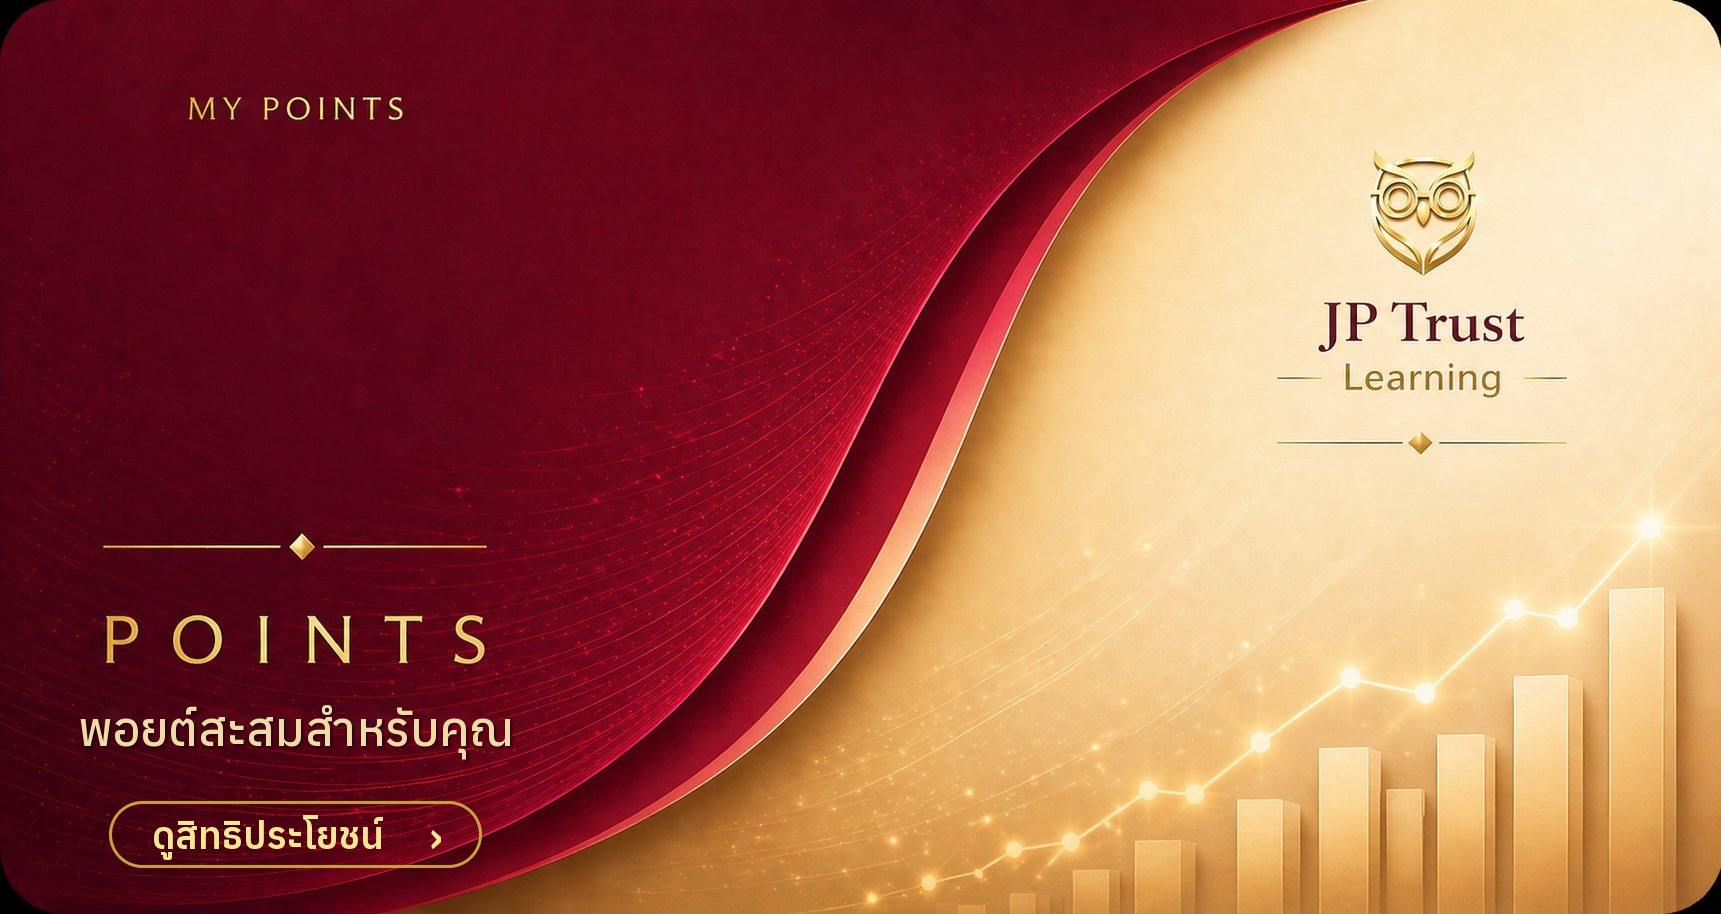
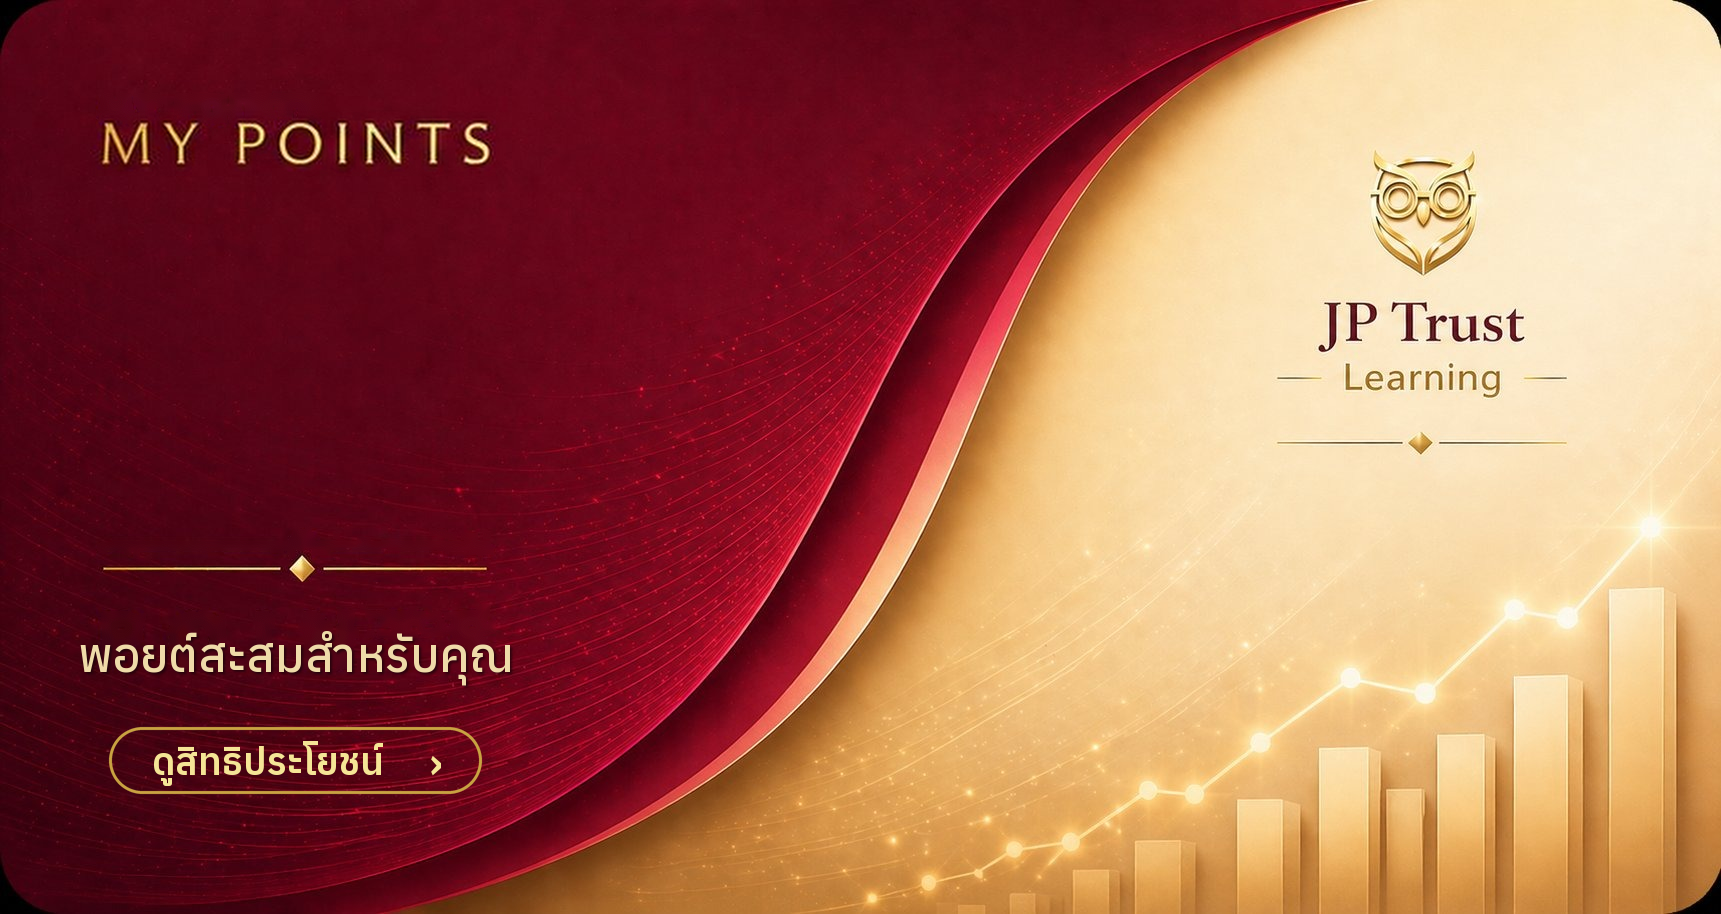
feat(dashboard): การ์ด Points ถอดคำ POINTS ตัวใหญ่ (ซ้ำกับ MY POINTS) · ขยาย MY POINTS 1.8 เท่า กว้างเท่าเส้นคั่น · จัดระยะแนวตั้งใหม่ ขอบบน = ขอบล่าง · วงแหวน top 24.15% · ปุ่มใส top 79.65% · cache-bust รูปการ์ด (A172)

Changed region(s): [[0.0308, 0.674, 0.308, 0.9497], [0.0616, 0.0919, 0.308, 0.1838], [0.0616, 0.5821, 0.2772, 0.6433]]

diff --git a/member-dashboard.html b/member-dashboard.html
@@ -129,7 +129,7 @@ html,body{font-family:'Sarabun','Anuphan',sans-serif;background:var(--cream);col
 /* Member name overlay: hidden — new card has owl/brand on right, no name slot */
 .rc-member-name{display:none}
 /* Points overlay: dynamic number rendered in upper-left maroon space, with static "POINTS" word in image acting as label below */
-.rc-points{position:absolute;left:8.14%;top:22%;text-align:center;display:flex;flex-direction:column;align-items:center;justify-content:center;width:18%;aspect-ratio:1;pointer-events:none}
+.rc-points{position:absolute;left:8.14%;top:24.15%;text-align:center;display:flex;flex-direction:column;align-items:center;justify-content:center;width:18%;aspect-ratio:1;pointer-events:none}
 .rc-points-ring{position:absolute;inset:0;width:100%;height:100%;border-radius:50%;border:1.5px solid transparent;border-top-color:rgba(212,175,55,0.7);border-right-color:rgba(244,228,186,0.3);animation:pointsSpin 3s linear infinite;filter:drop-shadow(0 0 4px rgba(212,175,55,0.4))}
 .rc-points-ring2{position:absolute;inset:7%;border-radius:50%;border:1px solid transparent;border-bottom-color:rgba(244,228,186,0.5);border-left-color:rgba(212,175,55,0.2);animation:pointsSpin 5s linear infinite reverse;filter:drop-shadow(0 0 3px rgba(212,175,55,0.3))}
 .rc-points-glow{position:absolute;inset:0;border-radius:50%;background:radial-gradient(circle,rgba(212,175,55,0.18) 0%,rgba(212,175,55,0.06) 50%,transparent 72%);animation:pointsPulse 2.5s ease-in-out infinite}
@@ -152,8 +152,8 @@ html,body{font-family:'Sarabun','Anuphan',sans-serif;background:var(--cream);col
 .rc-guide-label{font-family:'Cinzel','Anuphan',serif;font-size:max(10px,2cqw);color:#8B6914;letter-spacing:0.04em;text-align:center;text-shadow:0 1px 2px rgba(255,254,248,0.6);font-weight:600;line-height:1.2;white-space:nowrap}
 @media(max-width:380px){.rc-guide-label{font-size:9px;letter-spacing:0.02em}}
 
-/* A170 · ปุ่ม "ดูสิทธิประโยชน์" บนการ์ด — ปุ่มเป็นภาพใน member-card-rewards.png จึงวางปุ่มใสทับตำแหน่งเดียวกัน (วัดจากพิกเซลจริง 1721×914) · เปลี่ยนรูปการ์ดแล้วปุ่มย้าย ต้องวัดใหม่ · A171: คอลัมน์ซ้ายจัดกึ่งกลางแกน x=295 (ปุ่มในภาพ x109–481) · วงแหวน .rc-points left 8.14% ให้ศูนย์กลางตรงแกนเดียวกัน */
-.rc-benefit-link{position:absolute;left:6.39%;top:87.75%;width:21.5%;height:7%;border-radius:999px;border:0;padding:0;margin:0;background:transparent;cursor:pointer;z-index:5;-webkit-tap-highlight-color:transparent;transition:background .15s ease,box-shadow .15s ease}
+/* A170 · ปุ่ม "ดูสิทธิประโยชน์" บนการ์ด — ปุ่มเป็นภาพใน member-card-rewards.png จึงวางปุ่มใสทับตำแหน่งเดียวกัน (วัดจากพิกเซลจริง 1721×914) · เปลี่ยนรูปการ์ดแล้วปุ่มย้าย ต้องวัดใหม่ · A171: คอลัมน์ซ้ายจัดกึ่งกลางแกน x=295 (ปุ่มในภาพ x109–481) · วงแหวน .rc-points left 8.14% ให้ศูนย์กลางตรงแกนเดียวกัน · A172: ถอดคำ POINTS ตัวใหญ่ + MY POINTS กว้างเท่าเส้นคั่น · ปุ่มในภาพ y727–793 · วงแหวน top 24.15% */
+.rc-benefit-link{position:absolute;left:6.39%;top:79.65%;width:21.5%;height:7%;border-radius:999px;border:0;padding:0;margin:0;background:transparent;cursor:pointer;z-index:5;-webkit-tap-highlight-color:transparent;transition:background .15s ease,box-shadow .15s ease}
 .rc-benefit-link::before{content:'';position:absolute;inset:-70% -8% -45% -8%}
 .rc-benefit-link:active{background:rgba(244,228,186,.18);box-shadow:0 0 0 1px rgba(244,228,186,.5),0 0 12px rgba(212,175,55,.5)}
 .rc-benefit-link:focus-visible{outline:2px solid var(--gold-light);outline-offset:2px}
@@ -1122,7 +1122,7 @@ html,body{font-family:'Sarabun','Anuphan',sans-serif;background:var(--cream);col
 
     <div class="screen active" id="screen-home">
         <div class="reward-card fade-up fade-up-1" style="margin:14px 16px 0;overflow:hidden;border-radius:16px;">
-            <img src="member-card-rewards.png?v=1790049600" alt="JP Trust Rewards Card" style="width:100%;display:block;">
+            <img src="member-card-rewards.png?v=1790053200" alt="JP Trust Rewards Card" style="width:100%;display:block;">
             <canvas id="heroCanvas" style="position:absolute;inset:0;width:100%;height:100%;pointer-events:none;"></canvas>
             <div class="rc-member-name" id="cardName">Joonstinn</div>
             <div class="rc-points"><div class="rc-points-glow"></div><div class="rc-points-ring"></div><div class="rc-points-ring2"></div><div class="rc-points-num" id="cardPoints">000</div><div class="rc-points-label">Points</div></div>
